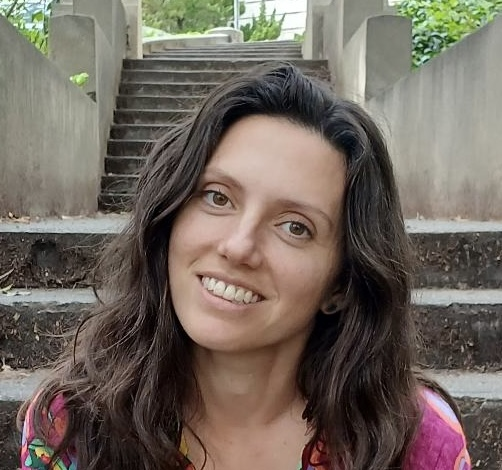
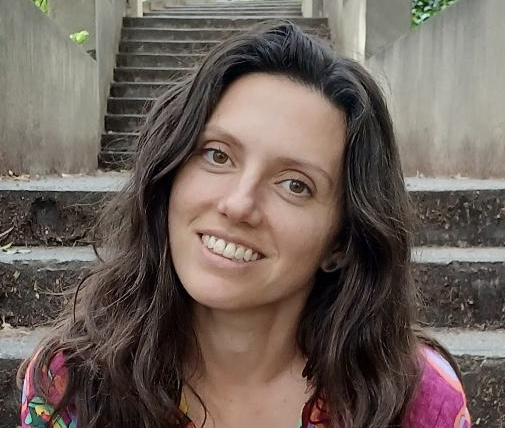
Use updated About portrait crop

diff --git a/index.html b/index.html
@@ -35,7 +35,7 @@
     <main>
         <section class="section">
             <h2>About</h2>
-            <img class="about-photo" src="cleopatra-photo.jpg?v=2" alt="Cleopatra Degher">
+            <img class="about-photo" src="cleopatra-photo.jpg?v=3" alt="Cleopatra Degher">
             <p>Using your voice differently is a skill you can learn. It takes
                practice and good feedback, and you don't have to figure it out on
                your own.</p>
